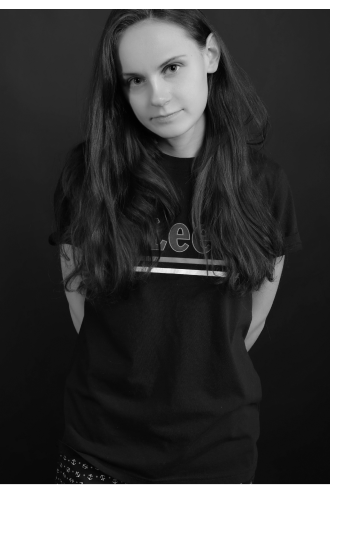
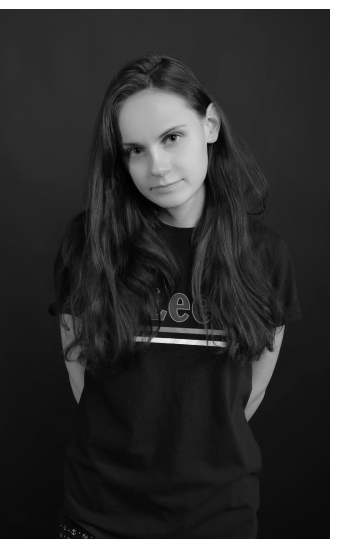
feat: done html and css markdown

diff --git a/index.html b/index.html
@@ -9,23 +9,100 @@
 </head>
 <body>
 <div class="container">
-    <section class="right-side"></section>
+    <div class="right-side">
+        <img src="assets/images/myimg.png" alt="author-image" class="myimg">
+        <section class="info-block-right-side-first">
+            <h2 class="h2-title">SKILLS</h2>
+            <ul class="ul-right-side">
+                <li class="li-right-side">Figma</li>
+                <li class="li-right-side">Photoshop</li>
+                <li class="li-right-side">UX/UI</li>
+                <li class="li-right-side">Delphi</li>
+                <li class="li-right-side">MySQL</li>
+                <li class="li-right-side">MS SQL</li>
+                <li class="li-right-side">English: B1</li>
+            </ul>
+        </section>
+        <section class="info-block-right-side">
+            <h2 class="h2-title">EDUCATION</h2>
+            <p class="p-info-right"><b>2016-2021:</b> BSU, Physics Faculty</p>
+        </section>
+
+        <section id="work" class="info-block-right-side">
+            <h2 class="h2-title">WORK<br>POSITIONS</h2>
+            <ul class="ul-right-side">
+                <p class="p-info-right"><b>December 2020 - June 2022:</b><br>Web-designer, self-employed</p>
+                <p class="p-info-right"><b>June 2022 - Now:</b><br>Software Engineer at Beltelecom</p>
+            </ul>
+        </section>
+
+        <section class="info-block-right-side">
+            <h2 class="h2-title">CONTACTS</h2>
+            <ul class="ul-right-side">
+                <a href="https://t.me/TracerMaker2077" class="a-contacts">Telegram</a>
+                <a href="alice.xx.green@gmail.com" class="a-contacts">E-mail</a>
+                <a href="https://github.com/alesiakniazeva" class="a-contacts">Behance</a>
+                <a href="alice.xx.green@gmail.com" class="a-contacts">GitHub</a>
+            </ul>
+        </section>
+    </div>
     <header class="header">
         <nav class="nav">
             <ul class="menu">
-                <li class="menu-item"><a class = "a-menu" href="">CODE</a></li>
-                <li class="menu-item"><a class = "a-menu" href="">PROJECTS</a></li>
-                <li class="menu-item"><a class = "a-menu" href="">WORK POSITIONS</a></li>
-                <li class="menu-item"><a class = "a-menu" href="">CONTACTS</a></li>
+                <li class="menu-item"><a class = "a-menu" href="#code">CODE</a></li>
+                <li class="menu-item"><a class = "a-menu" href="#projects">PROJECTS</a></li>
+                <li class="menu-item"><a class = "a-menu" href="#work">WORK POSITIONS</a></li>
+                <li class="menu-item"><a class = "a-menu" href="contacts">CONTACTS</a></li>
             </ul>
         </nav>
     </header>
     <main class="main">
         <h1 class="h1-title">Alesia Kniazeva</h1>
         <p class="h1-semititle">WEB-DESIGNER & SOFTWARE ENGINEER</p>
+        <section class="left-line"></section>
+        <section class="info-block-first">
+            <h2 class="h2-title">ABOUT ME</h2>
+            <p class="p-info">
+                Hello, my name’s Alesia Kniazeva. I work as a software engineer<br>
+                in the biggest telecommunication company in Belarus. I develop<br>
+                applications for internal needs of company using Delphi, MySQL,<br>
+                MS SQL. Also I’ve been working as web-designer and marketer<br>
+                on freelance since 2020. I’ve been creating landing pages prototypes<br>
+                and design. My key strengths are patience, purposefulness<br>
+                and thirst for knowledge.
+            </p>
+        </section>
+       <section id="code" class="info-block">
+        <h2 class="h2-title">CODE EXAMPLES</h2>
+        <div class="code-container">
+            <code class="code"><pre>
+SELECT COUNT(*) FROM (
+SELECT itog2.d_id,  itog2.d_m_id, itog2.d_date, itog2.d_type FROM
+(SELECT d_m_id, d_date, d_type, max(d_id) as d_id FROM dvig_tbl
+WHERE d_date <='2022-11-19'
+GROUP BY d_m_id ) as itog
+INNER JOIN dvig_tbl AS itog2 on itog2.d_m_id = itog.d_m_id
+AND itog2.d_id = itog.d_id
+GROUP BY itog2.d_m_id) AS itog3
+WHERE d_type = 'поступление' OR d_type = 'возврат'</pre>
+            </code>
+        </div>
+       </section>
+       <section id="projects" class="info-block">
+        <h2 class="h2-title">MY PROJECTS</h2>
+        <a href="https://www.behance.net/gallery/141019759/dizajn-lendinga-dlja-zapuska-kursa-po-zhenstvennosti" class="project-first">
+            <img src="assets/images/goddess.png" alt="langing-page-for-online-course-goddes">
+        </a>
+        <a href="https://www.behance.net/gallery/139906103/dizajn-lendinga-dlja-zapuska-kursa-po-tovarnomu-biznesu" class="project">
+            <img src="assets/images/shopify.png" alt="langing-page-for-online-course-shopify">
+        </a>
+
+       </section>
     </main>
     <footer class="footer">
-
+        <a href="https://rs.school/js/" class="logo-footer"><img src="assets/icons/rs_school_js.svg" alt="rsschool-logo" class="rsschool-logo-footer"></a>
+        <p class="name-footer">ALESIA KNIAZEVA 2022</p>
+        <a href="https://github.com/alesiakniazeva" class="logo-footer"><img src="assets/icons/GitHub-Logo.wine.svg" alt="gh-logo" class="gh-logo-footer"></a>
     </footer>
 </div>   
 </body>

diff --git a/style.css b/style.css
@@ -41,6 +41,7 @@
 
 body{
     background-color: #101010;
+    color:white;
 }
 
 .container {
@@ -78,25 +79,22 @@ body{
 
 .right-side{
     float:right;
-    width: 369px;
-    height: 1743px;
+    width: 370px;
+    height: 1785px;
     background: #782DF2;
 }
 
 
 .main{
-    margin-top:110px;
+    margin-top:120px;
 }
 
-.left-line{
 
-}
 
 .h1-title{
     font-family: RoadRadio;
     font-size: 68px;
     font-weight: 700;
-    color:white; 
     letter-spacing: 0.03em;   
 }
 
@@ -104,10 +102,135 @@ body{
     font-family: RoadRadio;
     font-size: 16px;
     font-weight: 100;
-    color:white; 
     letter-spacing: 0.03em; 
     margin-top:20px;  
 }
+
+.h2-title{
+    font-family: RoadRadio;
+    font-size: 32px;
+    font-weight: 500;
+    letter-spacing: 0.03em;  
+}
+
+.left-line{
+    width:1px;
+    height:1390px;
+    background-color: #ffffff;
+    float:left;
+    margin-top:90px;
+}
+
+.info-block{
+    margin-left:100px;
+    margin-top:60px;
+}
+
+
+
+
+.info-block-first {
+    margin-left:100px;
+    margin-top:90px;
+}
+
+
+.p-info{
+    font-family: SF;
+    font-size: 32px;
+    font-weight: 300; 
+    font-size: 18px;
+    line-height: 30px;
+    margin-top:20px;
+}
+
+.code-container{
+    background-color: #1D1D1D;
+    margin-top:20px;
+    width:500px; 
+    padding:20px;
+}
+
+.project-first{
+    display: block;
+    margin-top:20px;
+}
+
+.project{
+    display: block;
+    margin-top:10px;
+}    
+
+.myimg{
+    width: 339px;
+    height: 539px;
+    margin-top:110px;
+}
+
+.ul-right-side{
+    font-family: SF;
+    font-size: 32px;
+    font-weight: 300; 
+    font-size: 18px;
+    line-height:34px;
+    margin-top:20px;
+}
+
+.li-right-side{
+    list-style-type: none;
+}
+
+.info-block-right-side-first{
+    margin-left:58px;
+    margin-top:71px;
+}
+
+.info-block-right-side{
+    margin-left:58px;
+    margin-top:50px;
+}
+
+.p-info-right{
+    font-family: SF;
+    font-size: 32px;
+    font-weight: 100; 
+    font-size: 18px;
+    line-height: 30px;
+    margin-top:12px;
+}
+
+.a-contacts{
+    color:#ffffff;
+    display: block;
+}
+
+.footer{
+    width: 1168px;
+    height: 117px;
+    border: 1px solid #FFFFFF;
+    background-color: #101010;
+    margin-top:43px;
+    display: FLEX;
+    align-items: center;
+    justify-content: space-between;
+}
+.rsschool-logo-footer{
+    margin-left:20px;
+}
+
+.gh-logo-footer{
+    margin-right:20px;
+}
+
+.name-footer{
+    font-family: RoadRadio;
+    font-size: 32px;
+    font-weight: 100; 
+    font-size: 18px;
+    line-height: 30px;
+}
+
+
 
 
 
